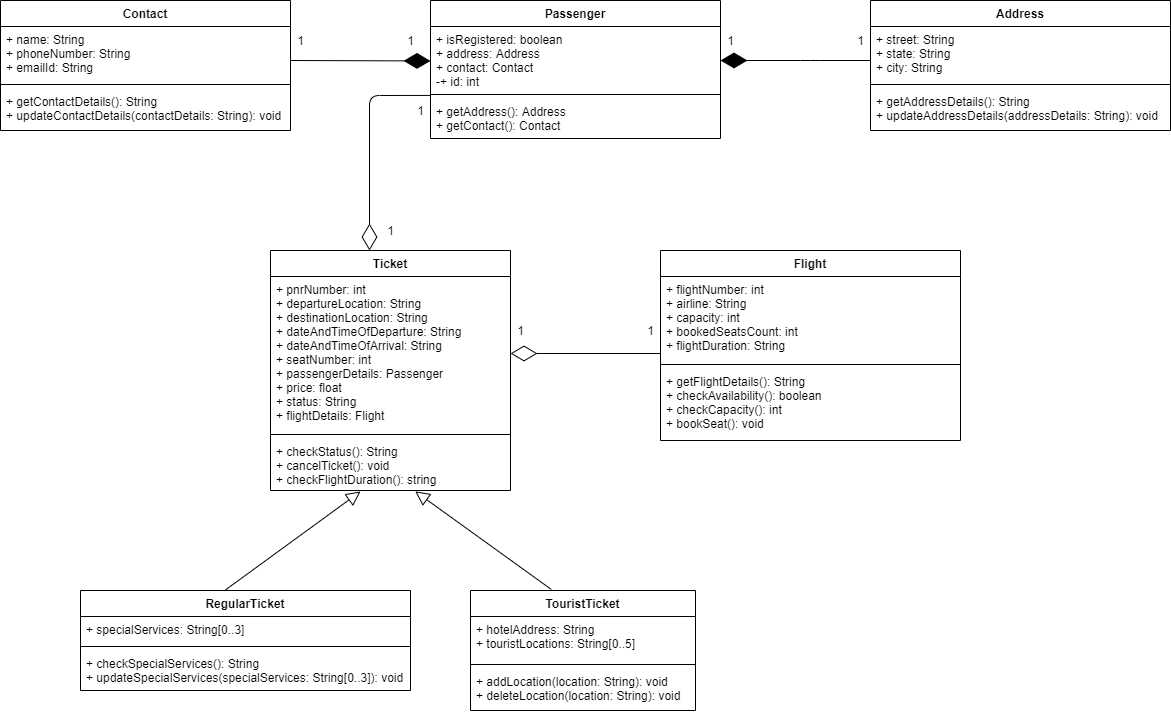
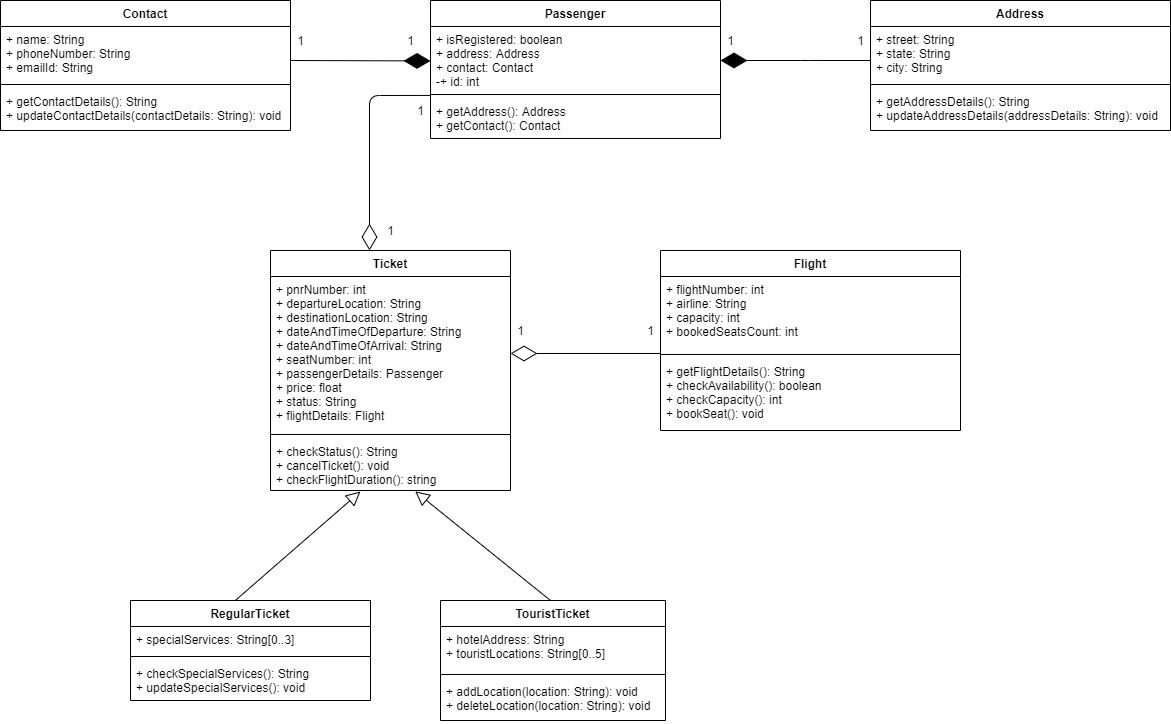
Established generalization relationship, added enum Status and updated checkFlightDuration() of Ticket class

diff --git a/src/frs/Ticket.java b/src/frs/Ticket.java
@@ -1,6 +1,6 @@
 package frs;
 
-public class Ticket {
+public abstract class Ticket {
 
     private int pnrNumber;
     private String departureLocation;
@@ -10,10 +10,10 @@ public class Ticket {
     private int seatNumber;
     private Passenger passengerDetails;
     private float price;
-    private String status;
+    private Status status;
     private Flight flightDetails;
 
-    public Ticket(int pnrNumber, String departureLocation, String destinationLocation, String dateAndTimeOfDeparture, String dateAndTimeOfArrival, int seatNumber, Passenger passengerDetails, float price, String status, Flight flightDetails) {
+    public Ticket(int pnrNumber, String departureLocation, String destinationLocation, String dateAndTimeOfDeparture, String dateAndTimeOfArrival, int seatNumber, Passenger passengerDetails, float price, Status status, Flight flightDetails) {
         this.pnrNumber = pnrNumber;
         this.departureLocation = departureLocation;
         this.destinationLocation = destinationLocation;
@@ -26,18 +26,46 @@ public class Ticket {
         this.flightDetails = flightDetails;
     }
 
-    public Ticket() {
-    }
-
-    public String checkStatus(){
+    public Status checkStatus(){
         return status;
     }
 
     public void cancelTicket(){
-        status = "Cancelled";
+        status = Status.Cancelled;
     }
 
     public String checkFlightDuration() {
-        return flightDetails.getFlightDuration();
+        /*
+            dateAndTimeOfArrival will contain a string as "25/06/2021 19:35"
+            split() will return a String array based on the split regex which is space in this case
+            Then we use array indexing to access time and repeat the same process to obtain hour and minutes of departure and arrival
+        */
+        String dateArrival = dateAndTimeOfArrival.split(" ")[0];
+        String dateDeparture = dateAndTimeOfDeparture.split(" ")[0];
+        int arrivalHour = Integer.parseInt(dateAndTimeOfArrival.split(" ")[1].split(":")[0]);
+        int departureHour = Integer.parseInt(dateAndTimeOfDeparture.split(" ")[1].split(":")[0]);
+        int arrivalMinutes = Integer.parseInt(dateAndTimeOfArrival.split(" ")[1].split(":")[1]);
+        int departureMinutes = Integer.parseInt(dateAndTimeOfDeparture.split(" ")[1].split(":")[1]);
+        int resultHour,resultMinutes;
+        if(arrivalHour > departureHour){
+            resultHour = arrivalHour - departureHour;
+            resultMinutes = Math.abs(arrivalMinutes - departureMinutes);
+        }else if(arrivalHour == departureHour){
+            if(dateArrival == dateDeparture){
+                resultHour = 0;
+                resultMinutes = arrivalMinutes - departureMinutes ;
+            }else{
+                resultHour = 24;
+                resultMinutes = Math.abs(arrivalMinutes - departureMinutes);
+            }
+        }else{
+            resultHour = 24 - (departureHour - arrivalHour);
+            resultMinutes = Math.abs(arrivalMinutes - departureMinutes);
+        }
+        if(resultHour == 0){
+            return String.valueOf(resultMinutes);
+        }else{
+            return resultHour + " Hours " + resultMinutes + " Minutes";
+        }
     }
 }

diff --git a/src/frs/Main.java b/src/frs/Main.java
@@ -3,33 +3,18 @@ package frs;
 public class Main {
     public static void main(String[] args){
         Flight flight = new Flight(123,"GoAir",150,100,"2 hours 30 minutes");
-        /* System.out.println(flight.getFlightDuration());
-        System.out.println(flight.getFlightDetails());
-        flight.bookSeat();
-        System.out.println(flight.getCapacity());
-        System.out.println(flight.getBookedSeatsCount()); */
 
         /* Address address = new Address("123","Mumbai","Mh");
-        Contact contact = new Contact("Soham","999999","s@y.com");
-        /* System.out.println(contact.getContactDetails());
-        contact.updateContactDetails("Pratik","888888","p@g.com");
-        System.out.println(contact.getContactDetails()); */
+         */
 
         //Passenger passenger = new Passenger(1,true,address,contact);
 
         //Ticket ticket = new Ticket(1234,"NewYork","Mumbai","25th Jan 12.00 pm","26th Jan 06.00 am",56,passenger,500,"Booked",flight);
 
         /* Contact contact = new Contact("Soham","999999","s@y.com");
-        System.out.println(contact.getContactDetails());
-        contact.updateContactDetails("Pratik","888888","p@g.com");
-        System.out.println(contact.getContactDetails()); */
+        */
 
-         TouristTicket touristTicket = new TouristTicket("N,A east",new String[]{"M","A","E"});
-        System.out.println(touristTicket.getHotelAddress());
-        System.out.println(touristTicket.getTouristLocations());
-        touristTicket.addLocation("Q");
-        System.out.println(touristTicket.getTouristLocations());
-        touristTicket.deleteLocation("M");
-        System.out.println(touristTicket.getTouristLocations());
+         //TouristTicket touristTicket = new TouristTicket("N,A east",new String[]{"M","A","E"});
+
     }
 }

diff --git a/src/frs/Flight.java b/src/frs/Flight.java
@@ -6,14 +6,12 @@ public class Flight {
     private String airline;
     private final int capacity;
     private int bookedSeatsCount;
-    private String flightDuration;
 
     public Flight(int flightNumber, String airline, int capacity, int bookedSeatsCount, String flightDuration) {
         this.flightNumber = flightNumber;
         this.airline = airline;
         this.capacity = capacity;
         this.bookedSeatsCount = bookedSeatsCount;
-        this.flightDuration = flightDuration;
     }
 
     public Flight(int capacity) {
@@ -24,8 +22,7 @@ public class Flight {
         String flightDetails = "Flight Number: " + flightNumber + "\n" +
                                 "Airline: " + airline + "\n" +
                                 "Seating capacity: " + this.capacity + "\n" +
-                                "Number of seats booked: " + bookedSeatsCount + "\n" +
-                                "Flight Duration: " + flightDuration;
+                                "Number of seats booked: " + bookedSeatsCount + "\n";
         return flightDetails;
     }
 
@@ -43,9 +40,6 @@ public class Flight {
         }
     }
 
-    public String getFlightDuration() {
-        return flightDuration;
-    }
 
     public int getCapacity() {
         return this.capacity;

diff --git a/src/frs/TouristTicket.java b/src/frs/TouristTicket.java
@@ -4,16 +4,15 @@ import java.util.ArrayList;
 import java.util.Arrays;
 import java.util.List;
 
-public class TouristTicket {
+public class TouristTicket extends Ticket{
     private String hotelAddress;
     private String[] touristLocations;
 
-    public TouristTicket(String hotelAddress, String[] touristLocations) {
+
+    public TouristTicket(int pnrNumber, String departureLocation, String destinationLocation, String dateAndTimeOfDeparture, String dateAndTimeOfArrival, int seatNumber, Passenger passengerDetails, float price, Status status, Flight flightDetails, String hotelAddress, String[] touristLocations) {
+        super(pnrNumber, departureLocation, destinationLocation, dateAndTimeOfDeparture, dateAndTimeOfArrival, seatNumber, passengerDetails, price, status, flightDetails);
         this.hotelAddress = hotelAddress;
         this.touristLocations = touristLocations;
-    }
-
-    public TouristTicket() {
     }
 
     public void addLocation(String location) {

diff --git a/src/frs/RegularTicket.java b/src/frs/RegularTicket.java
@@ -1,9 +1,10 @@
 package frs;
 
-public class RegularTicket {
+public class RegularTicket extends Ticket{
     private String[] specialServices;
 
-    public RegularTicket(String[] specialServices) {
+    public RegularTicket(int pnrNumber, String departureLocation, String destinationLocation, String dateAndTimeOfDeparture, String dateAndTimeOfArrival, int seatNumber, Passenger passengerDetails, float price, Status status, Flight flightDetails, String[] specialServices) {
+        super(pnrNumber, departureLocation, destinationLocation, dateAndTimeOfDeparture, dateAndTimeOfArrival, seatNumber, passengerDetails, price, status, flightDetails);
         this.specialServices = specialServices;
     }
 

diff --git a/src/frs/Status.java b/src/frs/Status.java
@@ -1,0 +1,5 @@
+package frs;
+
+public enum Status {
+    Confirmed,Cancelled;
+}
